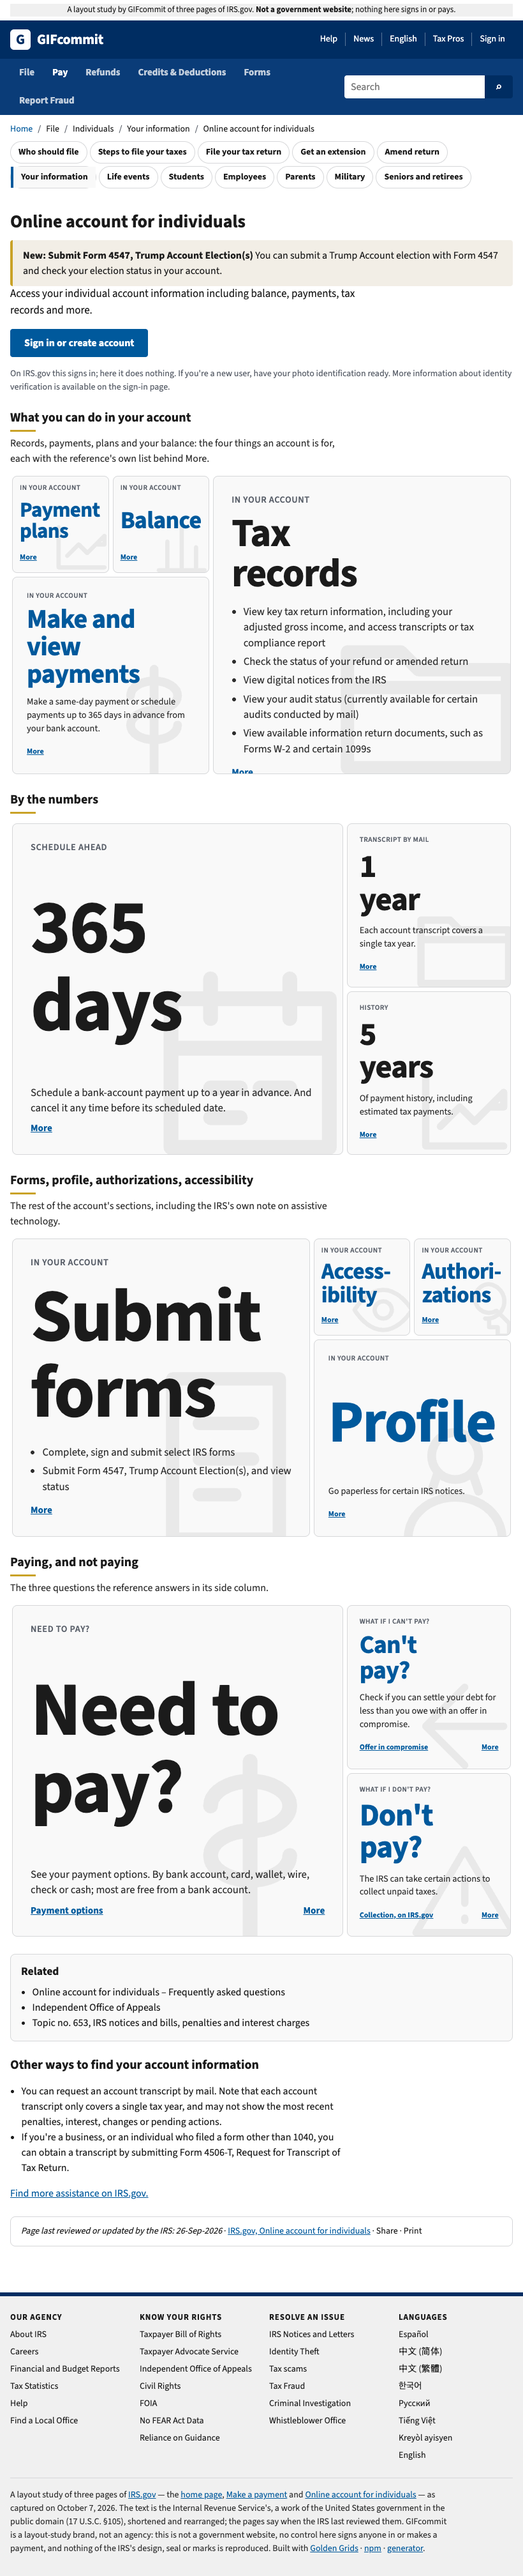
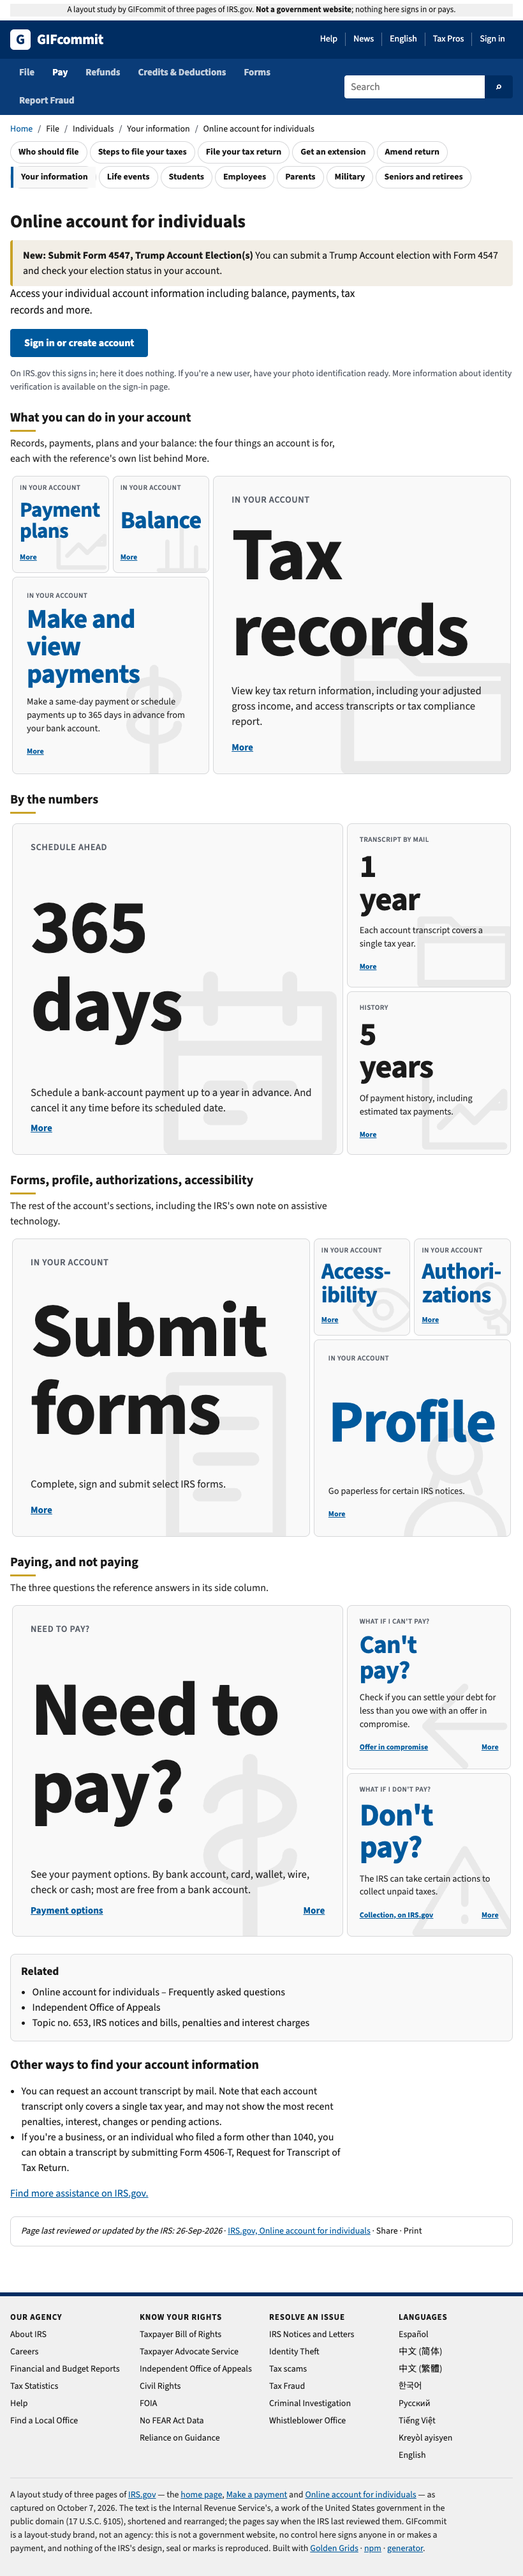
fix: show bullet lists only from 480px of height
So the account hero at 820 does not overflow.

Changed region(s): [[0.4268, 0.1875, 0.9146, 0.3124], [0.061, 0.4999, 0.5183, 0.5936]]

diff --git a/src/styles.css b/src/styles.css
@@ -152,8 +152,8 @@ main { min-width: 0; }
 @container (max-height: 320px) { .box__body--long { display: none; } }
 @container (min-height: 320.1px) { .box__body--short:not(.box__body--untall) { display: none; } }
 /* A list of bullets needs more room than a sentence: it appears only in a tall square. */
-@container (max-height: 400px) { .box__body--tall { display: none; } }
-@container (min-height: 400.1px) { .box__body--untall { display: none; } }
+@container (max-height: 480px) { .box__body--tall { display: none; } }
+@container (min-height: 480.1px) { .box__body--untall { display: none; } }
 @container (max-width: 110px) or (max-height: 90px) { .box__body, .box__foot, .box__source { display: none; } }
 @container (max-width: 64px) or (max-height: 64px) { .box__label { display: none; } }
 

diff --git a/README.md b/README.md
@@ -91,7 +91,7 @@ in the same plain register. No photograph is used; the only drawings are the stu
   card's ground; it is decorative and clipped by the box, and hidden in a
   square under 90px.
 - Body copy appears from 200px of height, the fuller passage from 320px,
-  and a list of bullets from 400px, so a hero square carries the
+  and a list of bullets from 480px, so a hero square carries the
   reference's whole list and a small square its first line.
 - Controls that would sign in, pay or download say so and do nothing.
 - Light is the reference's; dark is the study's, the same values turned
